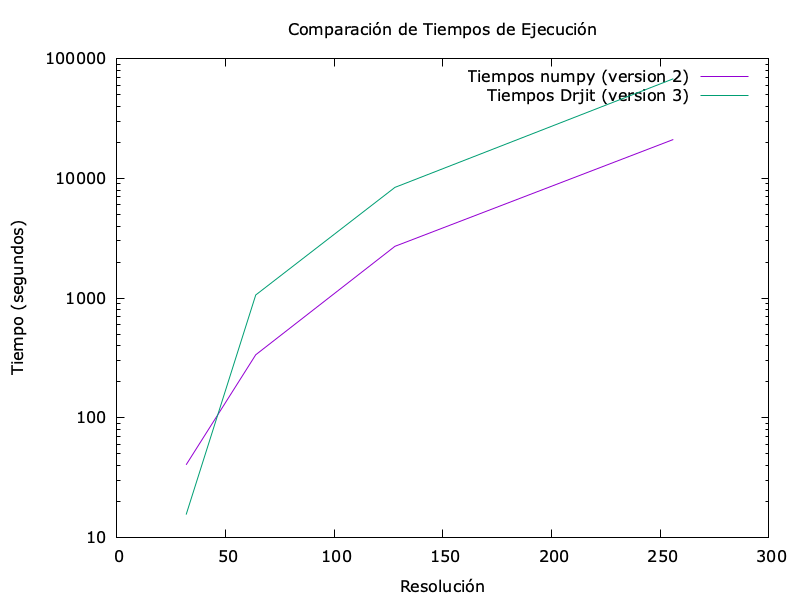
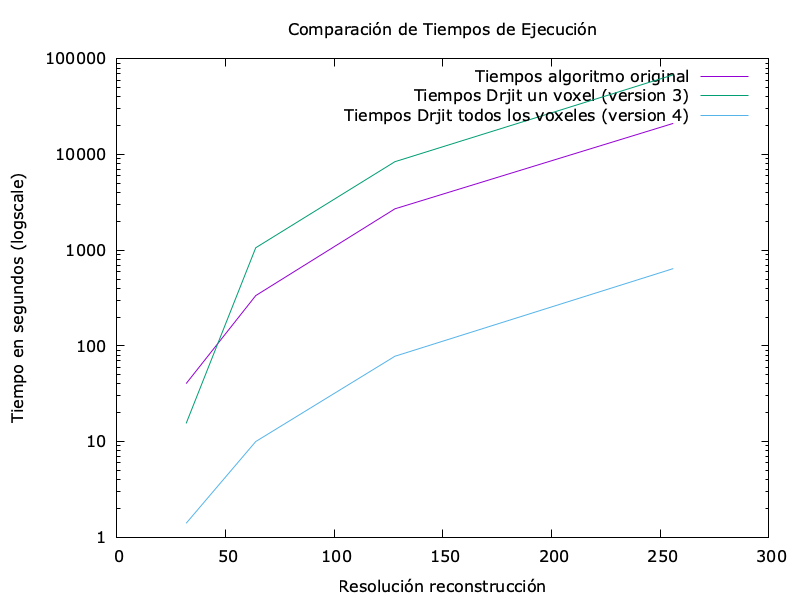
Tiempos medidos

diff --git a/src/test.py b/src/test.py
@@ -1,0 +1,27 @@
+import h5py
+import numpy as np
+from TransientVoxelizationParams import TransientVoxelizationParams
+
+
+
+f = h5py.File("datasets/Z.hdf5", 'r')
+print(f.keys())
+data = f["data"]
+
+print(data.shape)
+
+
+def parseHDF5(parsed_args, params: TransientVoxelizationParams):
+    # Leer el dataset
+    f = h5py.File(params.dataset, 'r')
+    data = f["data"]
+
+    # Leer los parámetros de la voxelización
+    params.fov # Preguntar a julio como traducir a fov el dataset
+    params.camera = np.array(f["cameraPosition"])
+    # params.lookTo
+    params.laserOrigin = np.array(f["laserPosition"])
+    # params.t0 
+    params.t_delta = f["deltaT"]
+
+

diff --git a/src/HDRDecoder.py b/src/HDRDecoder.py
@@ -14,8 +14,8 @@ def decodeHDRFile(file_name: str):
 
     channels = img.shape[2] # Debería ser 3
     
-    # Me quedo solo con el canal 0
-    img = img[:, :, 0]
+    # Almacenar la media de los valores de los 3 canales
+    img = np.mean(img, axis=2)
 
     # Definir los parametros de la imagen
     width = img.shape[1]
